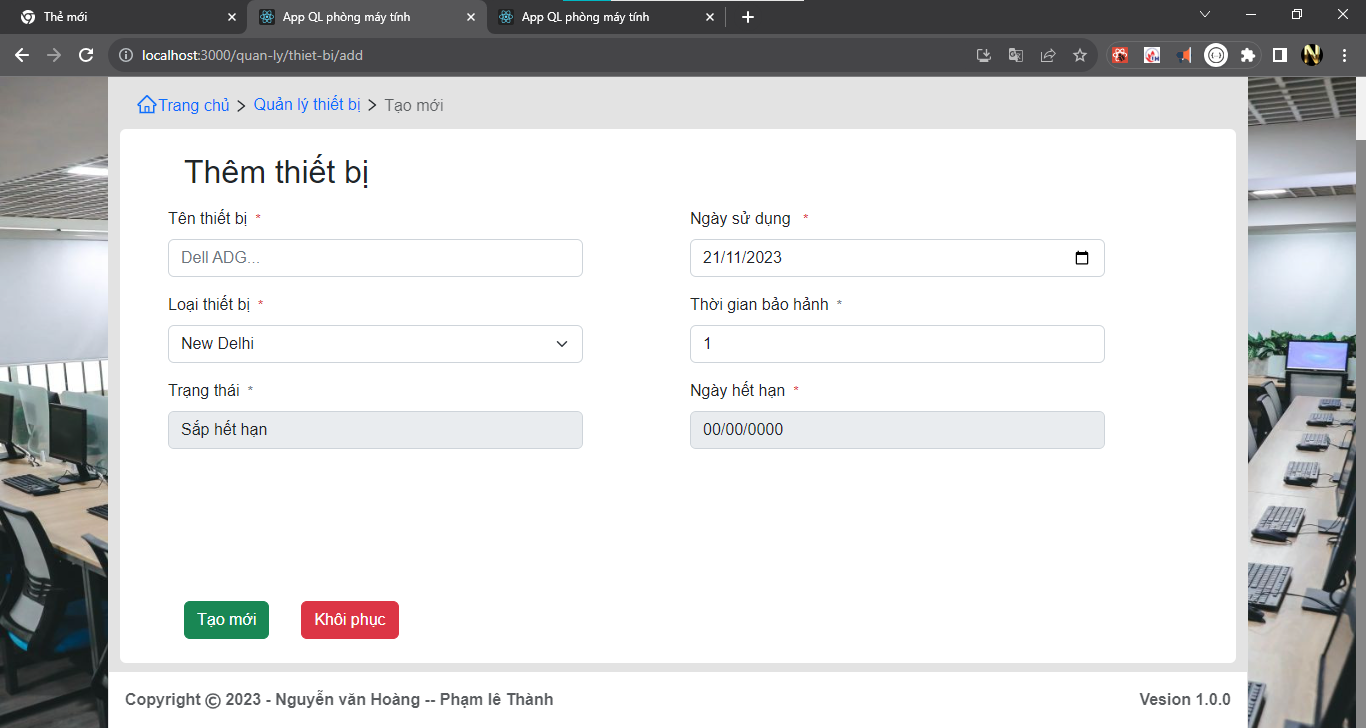
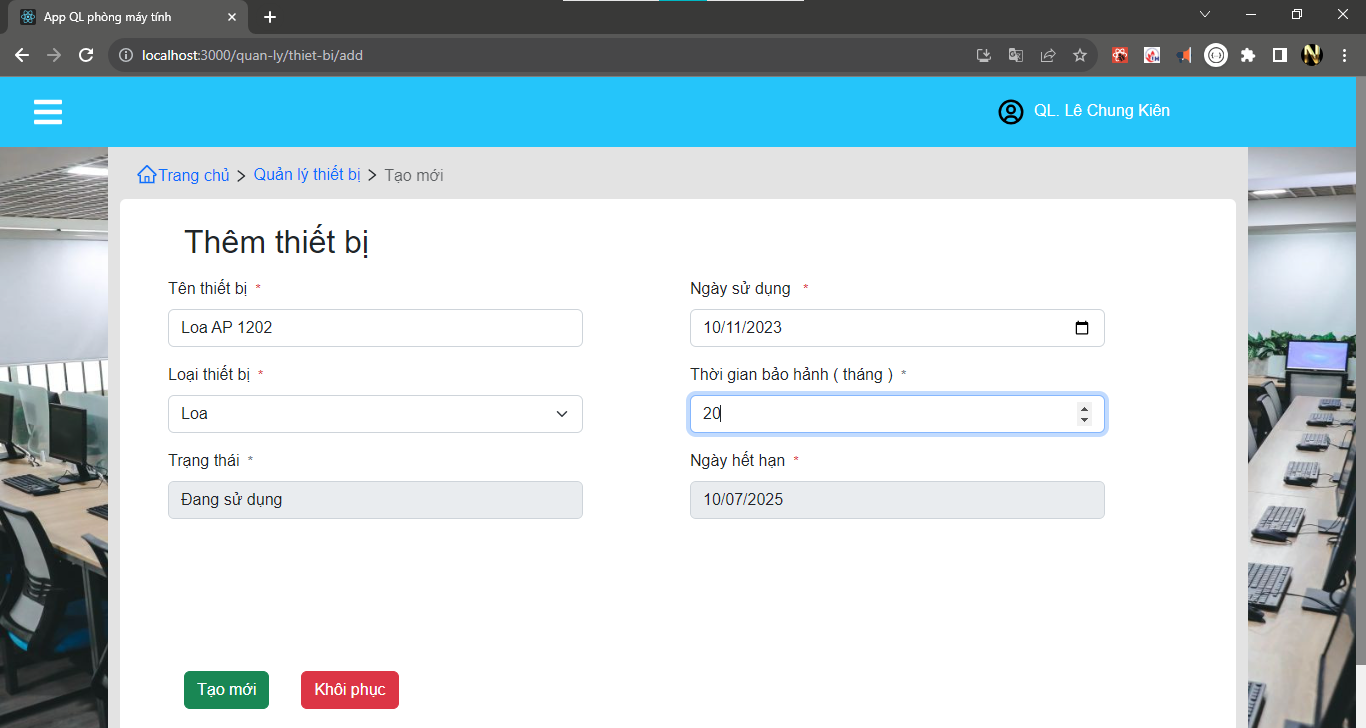
finish add Thiet bi - api

diff --git a/src/redux/reducers/thietBiReducer.jsx b/src/redux/reducers/thietBiReducer.jsx
@@ -3,6 +3,7 @@
 import { createSlice } from "@reduxjs/toolkit";
 import { formatStringDate, http } from "../../util/config";
 import Database from "../../util/database/Database";
+import { history } from "../..";
 
 //function
 
@@ -106,6 +107,19 @@ const thietBiReducer = createSlice({
         action.payload
       );
     },
+    insertThietBiAction: (state, action) => {
+      let thietbi = action.payload;
+      state.arrThietBi.push(thietbi);
+
+      //
+      let { valueTxtSearch, arrThietBi, valSelect } = state;
+
+      state.arrThietBiSearch = searchData(
+        arrThietBi,
+        valueTxtSearch,
+        valSelect
+      );
+    },
   },
 });
 // exp nay de sử dụng theo cách 2
@@ -114,28 +128,45 @@ export const {
   setArrThietBiAction,
   setValueTxtSearchAction,
   setValueSelectActionTBi,
+  insertThietBiAction,
 } = thietBiReducer.actions;
 export default thietBiReducer.reducer;
 
 // -------------- Call Api -----------------
+export const insertThietBiApi = (thietBi) => {
+  return async (dispatch) => {
+    try {
+      let result = await http.post("/LuuThietBiMay", thietBi);
 
+      dispatch(insertThietBiAction(result.data));
+
+      history.push("/quan-ly/thiet-bi");
+    } catch (error) {
+      console.log(
+        "🚀 ~ file: thietBiReducer.jsx:126 ~ returnasync ~ error:",
+        error
+      );
+    }
+  };
+};
 /**
  * ds loai thiet bi
  */
 export const getAllLoaiThietBiApi = async (dispatch) => {
   try {
-    let result = await http.get('/DSLoaiThietBi');
+    let result = await http.get("/DSLoaiThietBi");
 
     dispatch(setArrLoaiThietBiAction(result.data));
-    
   } catch (error) {
-    console.log("🚀 ~ file: thietBiReducer.jsx:128 ~ getAllLoaiThietBiApi ~ error:", error)
-    
+    console.log(
+      "🚀 ~ file: thietBiReducer.jsx:128 ~ getAllLoaiThietBiApi ~ error:",
+      error
+    );
   }
-}
+};
 /**
  * Ds all Thiet bij
- * @param {*} dispatch 
+ * @param {*} dispatch
  */
 export const getAllThietBiApi = async (dispatch) => {
   try {

diff --git a/src/components/layout/Add/FormAddThietBi.jsx b/src/components/layout/Add/FormAddThietBi.jsx
@@ -5,6 +5,7 @@ import { useDispatch, useSelector } from "react-redux";
 import {
   getAllLoaiThietBiApi,
   getAllThietBiApi,
+  insertThietBiApi,
 } from "../../../redux/reducers/thietBiReducer";
 import { formatStringDate, formatStringDate2 } from "../../../util/config";
 
@@ -71,11 +72,10 @@ export default function FormAddThietBi() {
     }
     // true
 
-    let { tenTBi, valSelLoaiTBi, ngaySD,  tgianBaoHanh, ngayKT } =
+    let { tenTBi, valSelLoaiTBi, ngaySD, tgianBaoHanh, ngayKT } =
       objThietBi.current;
 
-    let loaiThietBi = arrLoaiTBi.find(item => item.maLoai == valSelLoaiTBi)
-
+    let loaiThietBi = arrLoaiTBi.find((item) => item.maLoai == valSelLoaiTBi);
 
     let thietBiNew = {
       tenThietBi: tenTBi,
@@ -83,8 +83,9 @@ export default function FormAddThietBi() {
       ngayCaiDat: new Date(ngaySD),
       status: true,
       loaiThietBi,
-    }
-    console.log(thietBiNew);
+    };
+    //
+    dispatch(insertThietBiApi(thietBiNew));
   };
   const checkData = () => {
     let check = 1;
@@ -305,7 +306,7 @@ export default function FormAddThietBi() {
                           Thời gian bảo hảnh ( tháng )
                           <small
                             id="helpIdtgian"
-                            className="form-text text-muted mx-2"
+                            className="form-text text-danger mx-2"
                           >
                             *{errTbi.tgianBaoHanh}
                           </small>
